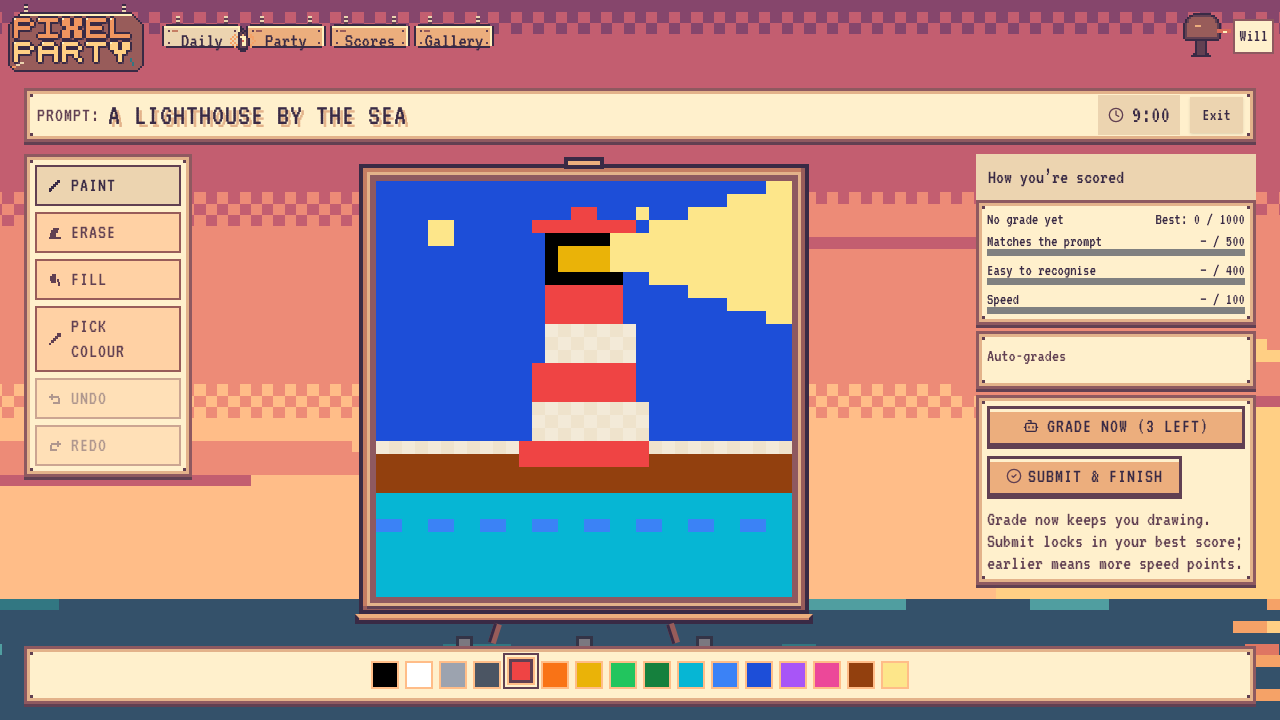
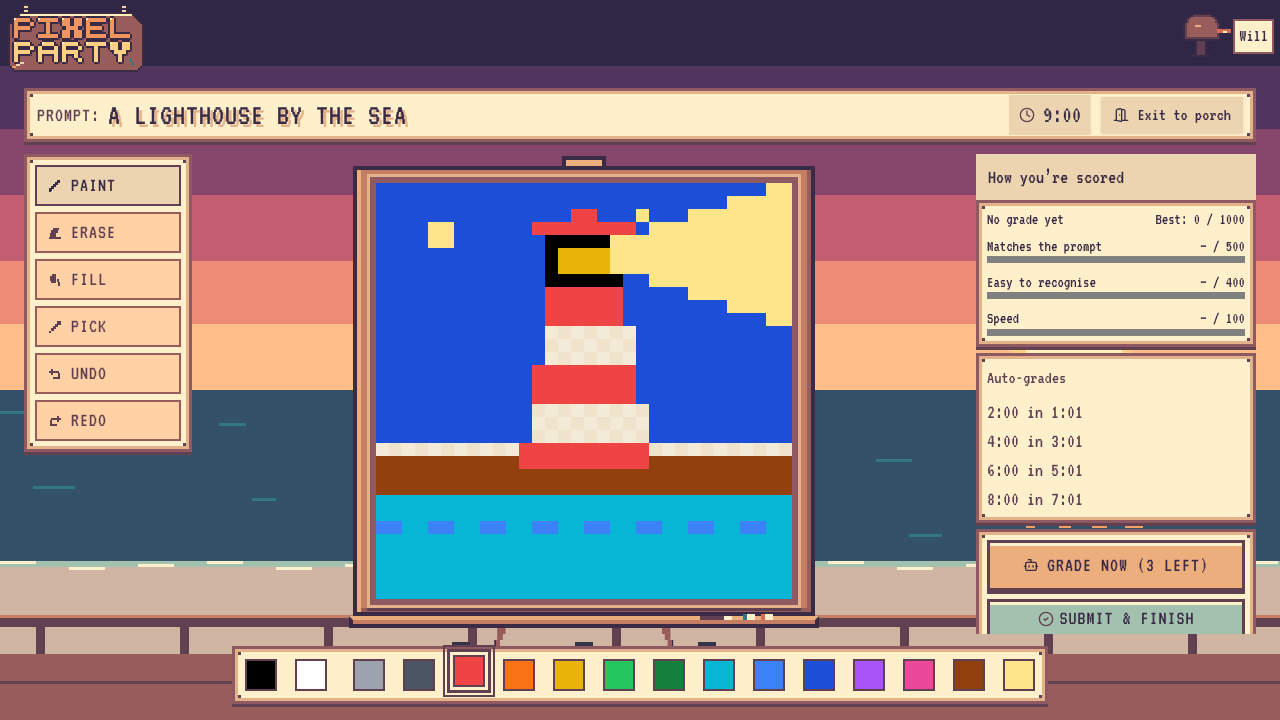
wip(play): preserve responsive play captures

diff --git a/src/components/play/PlayScenery.tsx b/src/components/play/PlayScenery.tsx
@@ -5,9 +5,10 @@ export function PlayScenery() {
   const ref = useRef<HTMLCanvasElement>(null)
   useEffect(() => {
     const canvas = ref.current
-    if (!canvas) return
+    const container = canvas?.parentElement
+    if (!canvas || !container) return
     const draw = () => {
-      const bounds = canvas.getBoundingClientRect()
+      const bounds = container.getBoundingClientRect()
       const pixel = Math.max(1, Math.round(parseFloat(getComputedStyle(canvas).getPropertyValue('--px')) || 2))
       canvas.width = Math.ceil(bounds.width / pixel)
       canvas.height = Math.ceil(bounds.height / pixel)
@@ -48,7 +49,7 @@ export function PlayScenery() {
       for (let y = floor + 9; y < height; y += 14) fill(P.wood[1], 0, y, width, 1)
     }
     const observer = new ResizeObserver(draw)
-    observer.observe(canvas)
+    observer.observe(container)
     draw()
     return () => observer.disconnect()
   }, [])

diff --git a/src/components/Navigation.tsx b/src/components/Navigation.tsx
@@ -133,6 +133,8 @@ export default function Navigation() {
           <DropdownMenuContent align="end" className="w-56">
             <DropdownMenuLabel><div>{user.name || 'Signed in'}</div><div data-testid="nav-user-email" className="text-sm text-muted-foreground">{user.email}</div></DropdownMenuLabel>
             <DropdownMenuSeparator />
+            {visibleNav.map(item => <DropdownMenuItem key={item.label} render={<Link to={item.label === 'Gallery' ? `/u/${encodeURIComponent(user.id)}` : item.path} />}>{item.label}</DropdownMenuItem>)}
+            <DropdownMenuSeparator />
             <DropdownMenuItem render={<Link to={`/u/${encodeURIComponent(user.id)}`} />}>My gallery</DropdownMenuItem>
             <DropdownMenuItem render={<Link to="/settings" />}>Settings</DropdownMenuItem>
             <DropdownMenuItem onClick={() => signOut()}>Sign out</DropdownMenuItem>

diff --git a/src/components/play/play.css b/src/components/play/play.css
@@ -1,5 +1,6 @@
 .play-layout { position: relative; display: grid; grid-template-columns: 168px minmax(0, 1fr) 280px; grid-template-rows: auto minmax(0, 1fr) auto; grid-template-areas: 'top top top' 'left canvas right' 'bottom bottom bottom'; gap: 12px; width: 100%; height: calc(100dvh - 104px); }
-.porch-shell:has(.daily-play) > .porch-nav { z-index: 2; }
+.porch-shell:has(.daily-play) > .porch-nav { --px: 2px; z-index: 2; }
+.porch-shell:has(.daily-play) .porch-nav__links { display: none; }
 .play-backdrop { position: fixed; inset: 0; z-index: 0; pointer-events: none; }
 .play-backdrop .pixel-scene { width: 100%; height: 100%; }
 .play-scenery-layer { position: absolute; inset: 0; overflow: hidden; opacity: 0; transition: opacity 150ms linear; }

diff --git a/src/pages/(app)/home.tsx b/src/pages/(app)/home.tsx
@@ -405,7 +405,7 @@ export default function DailyHomePage() {
                 width={32}
                 height={32}
                 availWidth={Math.max(32, boardBox.width - 56)}
-                availHeight={Math.min(564, Math.max(32, boardBox.height - 64))}
+                availHeight={Math.min(596, Math.max(32, boardBox.height - 50))}
                 cells={cells}
                 activeColor={activeColor}
                 tool={tool}
